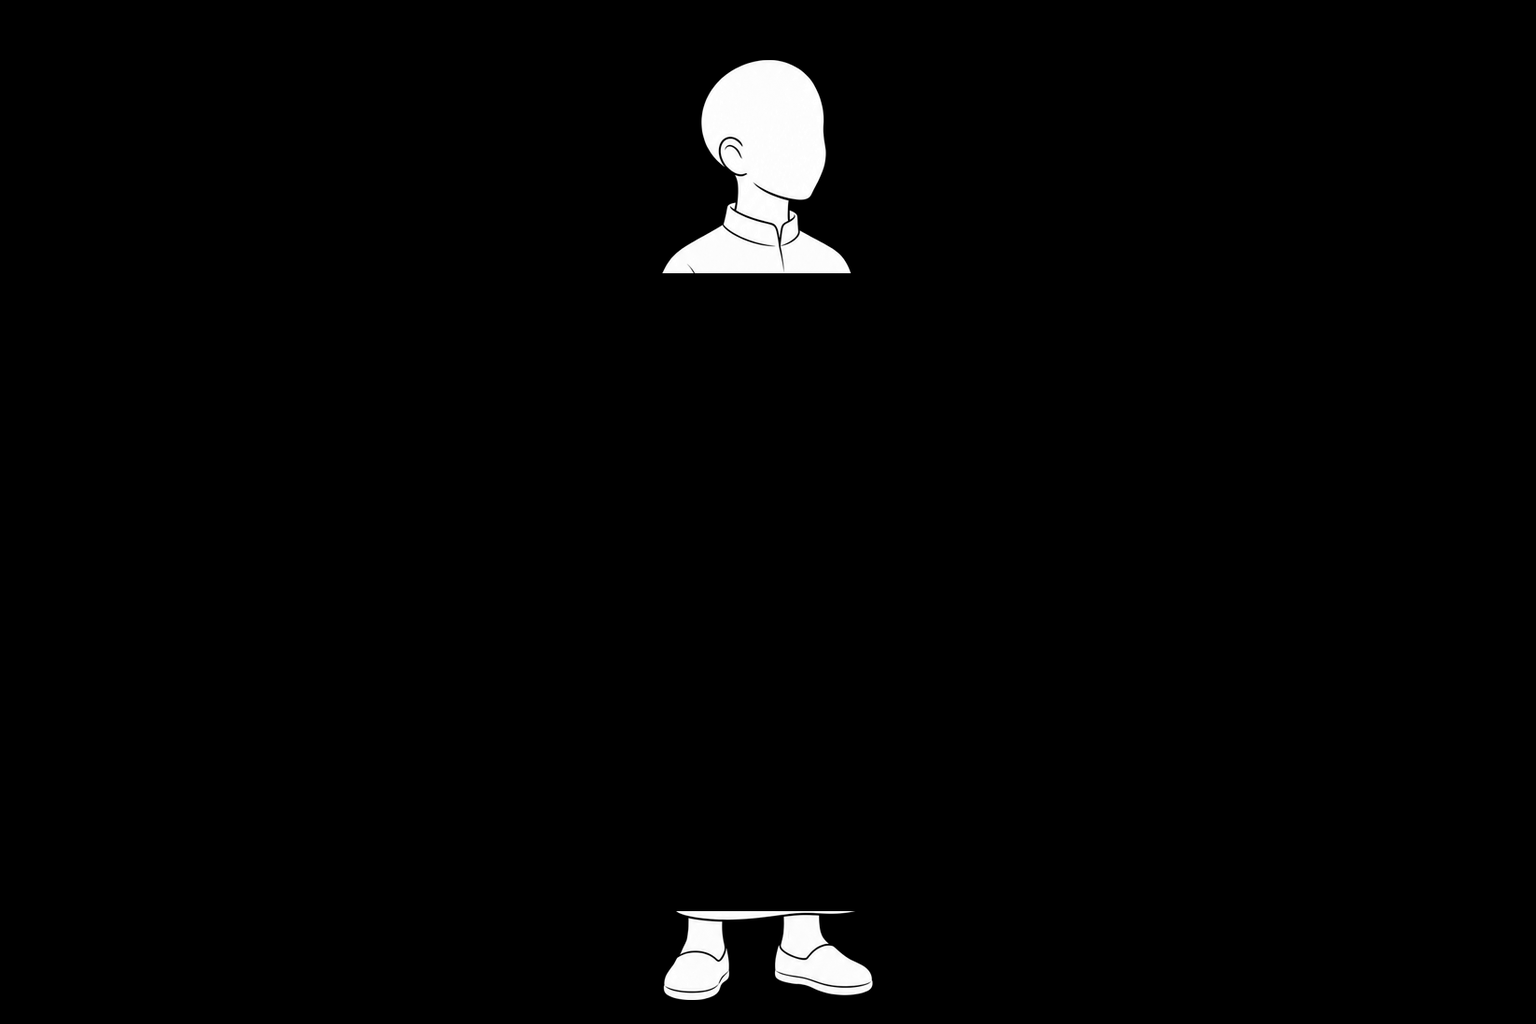
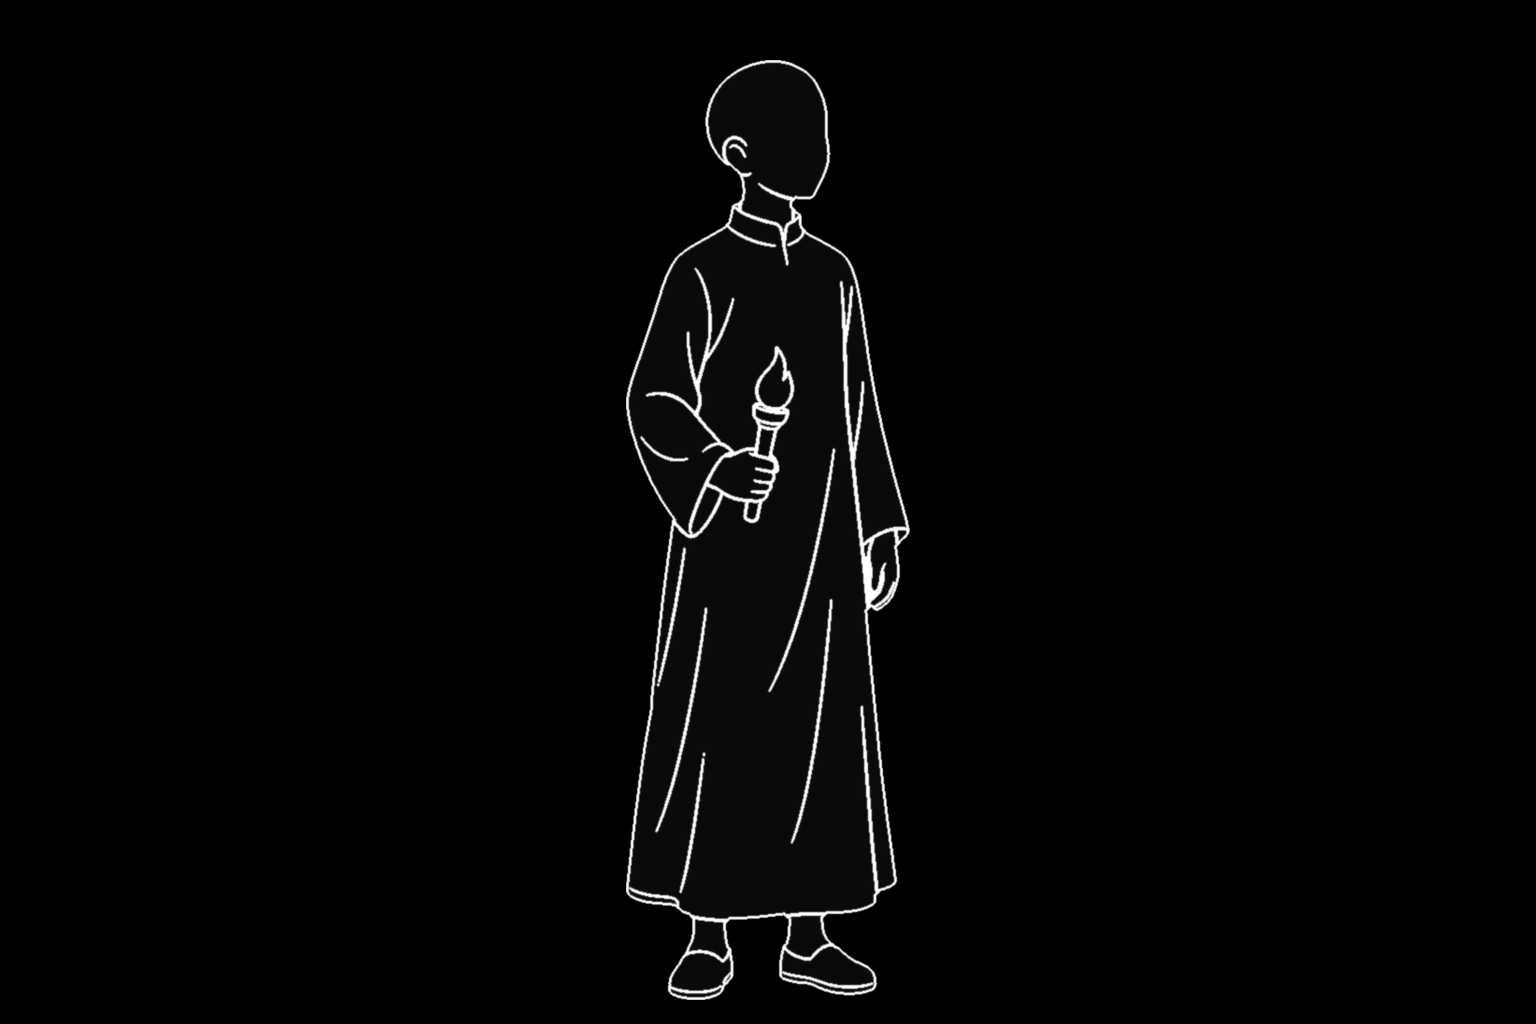
Song 01 promo v2: torch bearers as line art, calmer motes, dimmer shore under the figures, city dissolves in after the words
Claude-Session: https://claude.ai/code/session_01DSHsMeB7ain7qg3RYXYMEW

Changed region(s): [[0.4062, 0.0625, 0.5938, 0.875], [0.4062, 0.5625, 0.5938, 1.0], [0.5, 0.75, 0.5312, 0.8125]]

diff --git a/engine/songs/s01_stars_of_zion.py b/engine/songs/s01_stars_of_zion.py
@@ -181,8 +181,8 @@ ZOOM = Track([(0, 1.0), (TOTAL, 1.0)])         # the plates carry the camera mov
 EXPOSURE = Track([(0, 1.0), (44, 1.0), (51, 0.88), (TOTAL, 0.86)])   # calmer light behind the end card
 FADE = Track([(0, 0.0), (1.2, 1.0), (58.6, 1.0), (59.9, 0.0)])
 # the stars come down: silver motes falling slowly through the night, turning gold at sunrise
-MOTES = Track([(0, 0.20), (4, 0.30), (9, 0.55), (15, 0.35), (21, 0.45), (30, 0.30), (36, 0.18), (50, 0.18),
-               (TOTAL, 0.25)])
+MOTES = Track([(0, 0.14), (4, 0.20), (9, 0.30), (15, 0.20), (21, 0.26), (30, 0.20), (36, 0.14), (50, 0.14),
+               (TOTAL, 0.18)])
 MOTE_Y = (1.05, 0.18)
 
 
@@ -215,12 +215,12 @@ SCENES = [
          transition="bloom", flash=0.85, zoom=(1.02, 1.10), pan=((0.0, -0.01), (0.0, 0.0)), water=True,
          water_line=0.22, water_strength=0.8,
          gain=Track([(0, 1.0), (23.0, 1.0), (24.5, 0.78), (29.5, 0.78), (31.5, 0.95), (TOTAL, 0.95)])),
-    dict(image="assets/plates/s01/s01_morning_beams.jpg", t0=30.5, t1=50.5, fade_in=3.5, fade_out=3.5,
+    dict(image="assets/plates/s01/s01_morning_beams.jpg", t0=30.5, t1=51.3, fade_in=3.5, fade_out=3.5,
          transition="push", zoom=(1.10, 1.17), pan=((0.035, 0.0), (0.05, 0.0)), water=True, water_line=0.19,
          water_strength=0.7,
-         gain=Track([(0, 1.0), (34.0, 0.95), (37.0, 0.74), (47.5, 0.74), (TOTAL, 0.8)])),
-    dict(image="assets/plates/s01/s01_heavenly_city.jpg", t0=47.0, t1=61.0, fade_in=3.5, fade_out=0.0,
-         transition="ripple", ripple_from=(0.5, 0.21), zoom=(1.06, 1.0), water=True, water_line=0.21,
+         gain=Track([(0, 1.0), (31.5, 1.0), (34.0, 0.78), (37.0, 0.72), (47.5, 0.72), (TOTAL, 0.8)])),
+    dict(image="assets/plates/s01/s01_heavenly_city.jpg", t0=48.3, t1=61.0, fade_in=3.0, fade_out=0.0,
+         transition="dissolve", zoom=(1.06, 1.0), water=True, water_line=0.21,
          water_strength=0.6, water_bottom=0.20,
          gain=Track([(0, 0.95), (49.0, 0.9), (51.5, 0.76), (TOTAL, 0.76)])),
 ]
@@ -236,9 +236,9 @@ FIGURES = [
          t0=31.5, t1=ENC_HOLD - 0.5, pose_times=[35.5, 41.0], x=0.5, y=0.21, height=0.37, to_star=6,
          color=_ENC_C, glow=1.05),
     dict(poses=["assets/song_figures/s01/s01_torchbearer_a.png"], t0=33.0, t1=ENC_HOLD - 0.3,
-         x=0.21, y=0.21, height=0.31, to_star=6, color="#ffd796", glow=0.9, particles=7000),
+         x=0.21, y=0.21, height=0.32, to_star=6, color="#ffd796", glow=0.9, particles=7000),
     dict(poses=["assets/song_figures/s01/s01_torchbearer_b.png"], t0=34.0, t1=ENC_HOLD - 0.1,
-         x=0.79, y=0.21, height=0.33, to_star=6, color="#ffd796", glow=0.9, particles=7000, flip=True),
+         x=0.79, y=0.21, height=0.38, to_star=6, color="#ffd796", glow=0.9, particles=7000, flip=True),
 ]
 
 # C. Effect layers: a sunbeam falls on the kneeling young man before the words form (it is gone before they
